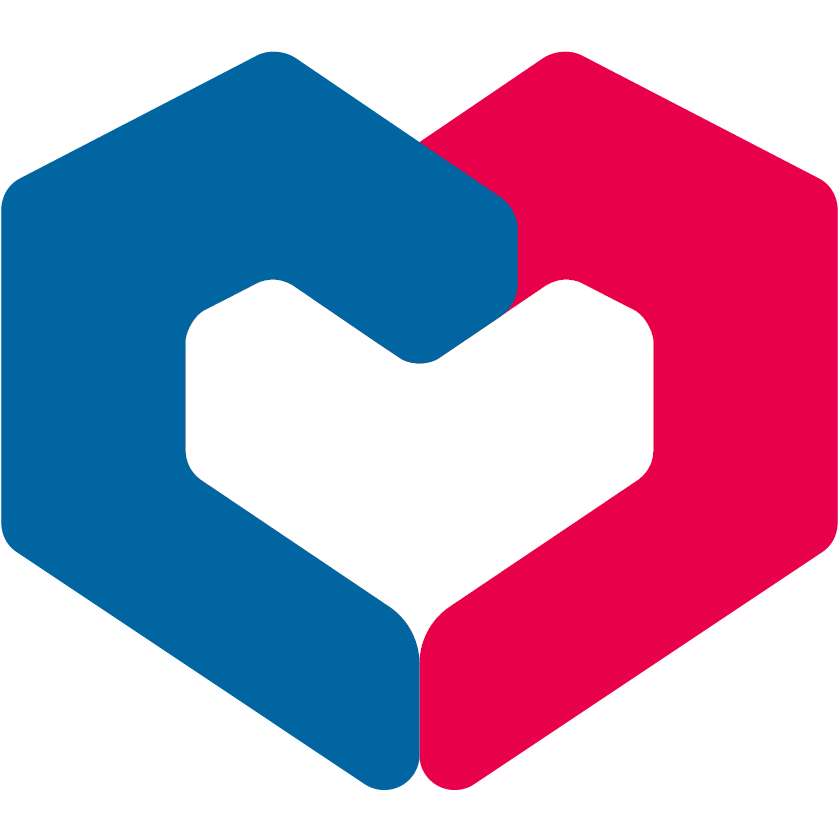
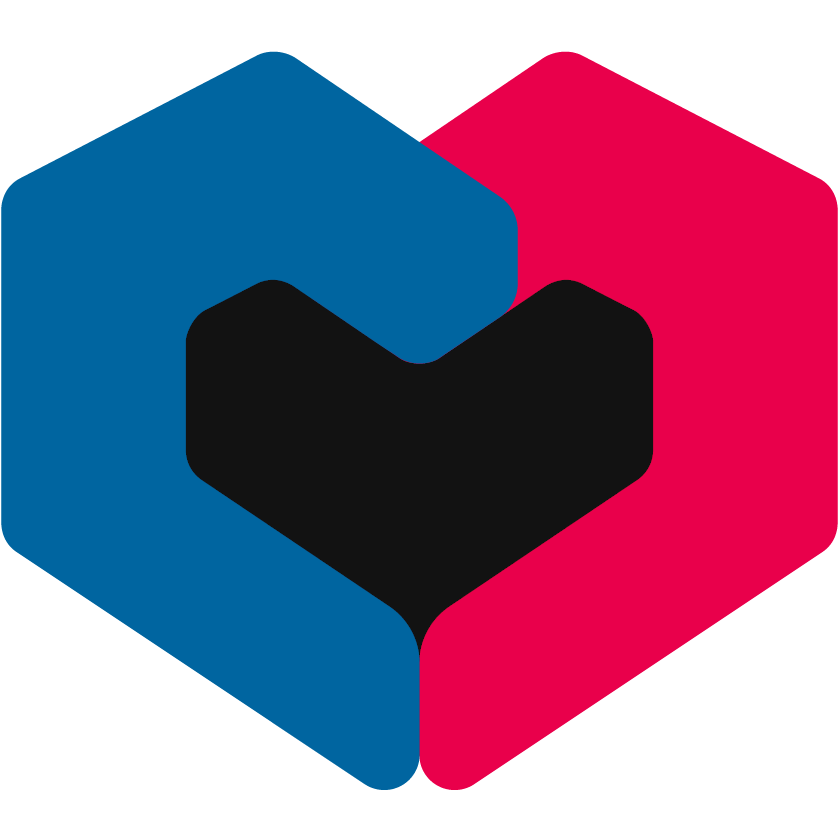
redesign app

Changed region(s): [[0.2167, 0.3095, 0.8048, 0.7738]]

diff --git a/src/app/components/profile/profile.component.html b/src/app/components/profile/profile.component.html
@@ -1,9 +1,22 @@
-<p>Authenticated request</p>
-<ul class="list-none" *ngIf="profile$ | async as profile">
-  <li><span class="font-medium">First Name:</span> {{ profile.givenName }}</li>
-  <li><span class="font-medium">Last Name:</span> {{ profile.surname }}</li>
-  <li>
-    <span class="font-medium">Email:</span> {{ profile.userPrincipalName }}
-  </li>
-  <li><span class="font-medium">Id:</span> {{ profile.id }}</li>
-</ul>
+<h1 class="text-blue-secondary m-2 text-lg font-mono">Profil</h1>
+<div class="bg-black-tertiary m-2 p-2">
+  <h1 class="text-grey-secondary text-xs uppercase pb-1">Login-Daten</h1>
+  <ul class="list-none" *ngIf="profile$ | async as profile">
+    <li>
+      <span class="text-light-pink">Name</span> {{ profile.givenName }}
+      {{ profile.surname }}
+    </li>
+    <li>
+      <span class="text-light-pink">E-Mail</span>
+      {{ profile.userPrincipalName }}
+    </li>
+    <li><span class="text-light-pink">ID</span> {{ profile.id }}</li>
+  </ul>
+</div>
+<button
+  (click)="logout()"
+  class="bg-dark-pink text-white m-2 py-1 px-2 flex items-center"
+>
+  <span class="material-symbols-outlined">logout</span>
+  <span>Logout</span>
+</button>

diff --git a/src/app/components/header/header.component.html b/src/app/components/header/header.component.html
@@ -1,33 +1,5 @@
 <header
-  class="sticky top-0 flex justify-between items-center h-12 px-4 py-2 bg-blue-secondary"
+  class="sticky top-0 flex justify-center items-center py-1 bg-black-secondary"
 >
-  <button [routerLink]="['']" class="text-white text-xl font-medium">
-    G Collection
-  </button>
-  <div class="flex items-center space-x-2">
-    <button
-      [routerLink]="['qr-generator']"
-      class="material-symbols-outlined text-white"
-    >
-      qr_code
-    </button>
-    <button
-      [routerLink]="['qr-scanner']"
-      class="material-symbols-outlined text-white"
-    >
-      qr_code_scanner
-    </button>
-    <button
-      [routerLink]="['profile']"
-      class="material-symbols-outlined text-white"
-    >
-      account_circle
-    </button>
-    <button
-      (click)="logout.emit()"
-      class="material-symbols-outlined text-white"
-    >
-      logout
-    </button>
-  </div>
+  Genius Collection
 </header>

diff --git a/src/app/components/home/home.component.html b/src/app/components/home/home.component.html
@@ -1,7 +1,10 @@
-<p>Unauthenticated request</p>
-<ul class="list-none" *ngIf="joke$ | async as joke">
-  <li><span class="font-medium">Type:</span> {{ joke.type }}</li>
-  <li><span class="font-medium">Setup:</span> {{ joke.setup }}</li>
-  <li><span class="font-medium">Punchline:</span> {{ joke.punchline }}</li>
-  <li><span class="font-medium">Id:</span> {{ joke.id }}</li>
-</ul>
+<h1 class="text-blue-secondary m-2 text-lg font-mono">Home</h1>
+<div class="bg-black-tertiary m-2 p-2">
+  <h1 class="text-grey-secondary text-xs uppercase pb-1">Joke</h1>
+  <ul class="list-none" *ngIf="joke$ | async as joke">
+    <li><span class="text-light-pink">Type</span> {{ joke.type }}</li>
+    <li><span class="text-light-pink">Setup</span> {{ joke.setup }}</li>
+    <li><span class="text-light-pink">Punchline</span> {{ joke.punchline }}</li>
+    <li><span class="text-light-pink">ID</span> {{ joke.id }}</li>
+  </ul>
+</div>

diff --git a/tailwind.config.ts b/tailwind.config.ts
@@ -10,15 +10,17 @@ export default {
     },
     extend: {
       colors: {
-        'blue-primary': '#064266',
-        'blue-secondary': '#0065a0',
-        'blue-tertiary': '#0093d9',
-        'yellow-primary': '#fee45d',
-        'green-primary': '#54c766',
-        'gray-background': '#0642660d',
-        'gray-background-darkened': '#00000015',
-        'gray-border': '#e1e5f0',
-        'gray-element-background': '#f4f6fb',
+        blue: '#064266',
+        'blue-primary': '#0065a0',
+        'blue-secondary': '#54b4e2',
+        'dark-pink': '#ff5caa',
+        'light-pink': '#ff7dbb',
+        mint: '#8ce5e5',
+        yellow: '#fee45d',
+        grey: '#d7d6d9',
+        'black-primary': '#121212',
+        'black-secondary': '#1e1e1e',
+        'black-tertiary': '#1f1f1f',
       },
       fontFamily: {
         sans: ['Montserrat', 'Roboto', 'Helvetica Neue', 'sans-serif'],

diff --git a/src/app/components/profile/profile.component.ts b/src/app/components/profile/profile.component.ts
@@ -1,6 +1,7 @@
 import { Component, OnInit } from '@angular/core';
 import { HttpClient } from '@angular/common/http';
 import { Observable } from 'rxjs';
+import { AuthService } from 'src/app/services/auth.service';
 
 const GRAPH_ENDPOINT = 'https://graph.microsoft.com/v1.0/me';
 
@@ -18,7 +19,10 @@ type ProfileType = {
 export class ProfileComponent implements OnInit {
   profile$!: Observable<ProfileType>;
 
-  constructor(private http: HttpClient) {}
+  constructor(
+    private http: HttpClient,
+    private authService: AuthService,
+  ) {}
 
   ngOnInit() {
     this.getProfile();
@@ -26,5 +30,9 @@ export class ProfileComponent implements OnInit {
 
   getProfile() {
     this.profile$ = this.http.get<ProfileType>(GRAPH_ENDPOINT);
+  }
+
+  logout() {
+    this.authService.logout();
   }
 }

diff --git a/src/app/components/navigation/navigation.component.html b/src/app/components/navigation/navigation.component.html
@@ -1,0 +1,32 @@
+<footer
+  class="fixed bottom-0 w-full flex justify-around items-center h-12 px-4 py-2 bg-black-secondary"
+>
+  <button
+    [routerLink]="['qr-generator']"
+    routerLinkActive="text-blue-secondary"
+    class="material-symbols-outlined"
+  >
+    qr_code
+  </button>
+  <button
+    [routerLink]="['qr-scanner']"
+    routerLinkActive="text-blue-secondary"
+    class="material-symbols-outlined"
+  >
+    qr_code_scanner
+  </button>
+  <button
+    [routerLink]="['home']"
+    routerLinkActive="text-blue-secondary"
+    class="material-symbols-outlined"
+  >
+    home
+  </button>
+  <button
+    [routerLink]="['profile']"
+    routerLinkActive="text-blue-secondary"
+    class="material-symbols-outlined"
+  >
+    account_circle
+  </button>
+</footer>

diff --git a/src/app/app.module.ts b/src/app/app.module.ts
@@ -32,6 +32,7 @@ import { environment } from './../environments/environment';
 import { QrScannerComponent } from './components/qr-scanner/qr-scanner.component';
 import { QRCodeModule } from 'angularx-qrcode';
 import { QrGeneratorComponent } from './components/qr-generator/qr-generator.component';
+import { NavigationComponent } from './components/navigation/navigation.component';
 
 const GRAPH_ENDPOINT = 'https://graph.microsoft.com/v1.0/me';
 
@@ -92,6 +93,7 @@ export function MSALGuardConfigFactory(): MsalGuardConfiguration {
     ProfileComponent,
     QrScannerComponent,
     QrGeneratorComponent,
+    NavigationComponent,
   ],
   imports: [
     BrowserModule,

diff --git a/src/index.html b/src/index.html
@@ -7,9 +7,9 @@
     <meta name="viewport" content="width=device-width, initial-scale=1" />
     <link rel="icon" type="image/x-icon" href="favicon.ico" />
     <link rel="manifest" href="manifest.webmanifest" />
-    <meta name="theme-color" content="#0065a0" />
+    <meta name="theme-color" content="#1e1e1e" />
   </head>
-  <body>
+  <body class="bg-black-primary text-white">
     <app-root></app-root>
     <app-redirect></app-redirect>
     <noscript

diff --git a/src/app/components/header/header.component.ts b/src/app/components/header/header.component.ts
@@ -1,9 +1,7 @@
-import { Component, EventEmitter, Output } from '@angular/core';
+import { Component } from '@angular/core';
 
 @Component({
   selector: 'app-header',
   templateUrl: './header.component.html',
 })
-export class HeaderComponent {
-  @Output() logout = new EventEmitter<void>();
-}
+export class HeaderComponent {}

diff --git a/src/app/app.component.html b/src/app/app.component.html
@@ -1,5 +1,6 @@
 <ng-container *ngIf="loginDisplay">
-  <app-header (logout)="onLogout()"></app-header>
+  <app-header></app-header>
   <!--This is to avoid reload during acquireTokenSilent() because of hidden iframe -->
   <router-outlet *ngIf="!isIframe"></router-outlet>
+  <app-navigation></app-navigation>
 </ng-container>

diff --git a/src/app/components/qr-generator/qr-generator.component.html b/src/app/components/qr-generator/qr-generator.component.html
@@ -1,3 +1,4 @@
+<h1 class="text-blue-secondary m-2 text-lg font-mono">QR Code</h1>
 <qrcode
   class="flex justify-center mt-8"
   [qrdata]="'Your data string'"
@@ -7,4 +8,6 @@
   [imageHeight]="75"
   [imageWidth]="75"
   [margin]="0"
+  [colorLight]="'#121212'"
+  [colorDark]="'#ff7dbb'"
 ></qrcode>

diff --git a/src/app/app-routing.module.ts b/src/app/app-routing.module.ts
@@ -15,6 +15,11 @@ const routes: Routes = [
     children: [
       {
         path: '',
+        redirectTo: '/home',
+        pathMatch: 'full',
+      },
+      {
+        path: 'home',
         component: HomeComponent,
       },
       {
